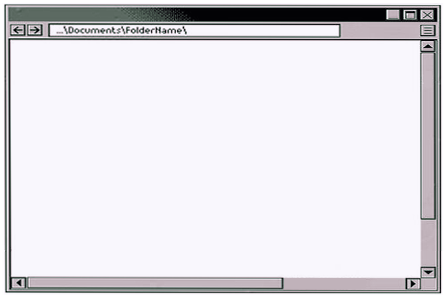
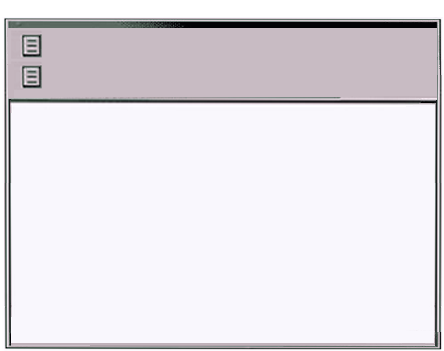
数据库框框

diff --git a/BigHomework/src/UI.java b/BigHomework/src/UI.java
@@ -289,8 +289,8 @@ class MainFrame{
 
         //设置各区块的绝对尺寸
         modifyPanel.setPreferredSize(new Dimension(433,170));
-        buttonPanel.setPreferredSize(new Dimension(433,50));
-        DBPanel.setPreferredSize(new Dimension(433,220));
+        buttonPanel.setPreferredSize(new Dimension(433,30));
+        DBPanel.setPreferredSize(new Dimension(433,230));
         ansPanel.setPreferredSize(new Dimension(433,35));
 
         //透明化panel
@@ -365,34 +365,58 @@ class MainFrame{
 
         //DBPanel：数据库信息显示区域（使用JTable显示数据）：搜索框 + 数据显示区域
         DBPanel.setLayout(new BorderLayout());
-        //搜索区域
+//搜索区域
         JPanel searchPanel = new JPanel();
-        JLabel searchLabel = new JLabel("按姓名查询：");
-        JTextField searchPart = new JTextField();
-        JButton searchBtn = new JButton("查询");
-
-        //透明度设置
+//【修改1：外层改成垂直布局，实现上下分行】
+        searchPanel.setLayout(new BoxLayout(searchPanel, BoxLayout.Y_AXIS));
         searchPanel.setOpaque(false);
-
-        //searchPanel布局为流式布局，左对齐，垂直间距5，水平间距5
-        searchPanel.setLayout(new FlowLayout(FlowLayout.LEFT,5,5));
-        //searchPanel的边距
         searchPanel.setBorder(BorderFactory.createEmptyBorder(0,3,0,0));
 
-        //查询按钮设置
-        searchBtn.setFont(new java.awt.Font("Courier",Font.PLAIN,13));//设置Jbutton字体大小 以及风格
-        searchBtn.setBackground(Color.WHITE);
-        searchBtn.setPreferredSize(new Dimension(55,20));
-        searchBtn.setBorder(BorderFactory.createLineBorder(Color.gray,1,true));
+//===== 第一行：第一个搜索行 =====
+        JPanel row1 = new JPanel(new FlowLayout(FlowLayout.LEFT,20,2));
+        row1.setOpaque(false);
+        JLabel searchLabel = new JLabel("      ");
+        JTextField searchPart = new JTextField();
+        JButton searchBtn1 = new JButton("查询");
 
-        //搜索框设置
+//查询按钮1设置
+        searchBtn1.setFont(new java.awt.Font("Courier",Font.PLAIN,13));
+        searchBtn1.setBackground(Color.WHITE);
+        searchBtn1.setPreferredSize(new Dimension(55,20));
+        searchBtn1.setBorder(BorderFactory.createLineBorder(Color.gray,1,true));
+//搜索框1尺寸
         searchPart.setPreferredSize(new Dimension(175,25));
 
+        row1.add(searchLabel);
+        row1.add(searchPart);
+        row1.add(searchBtn1);
+        searchPanel.add(row1);
+
+//【两行中间空隙】
+        searchPanel.add(Box.createVerticalStrut(3));
+
+//===== 第二行：第二个搜索行（新增searchPart2，和上面结构一致，垂直在下方） =====
+        JPanel row2 = new JPanel(new FlowLayout(FlowLayout.LEFT,20,2));
+        row2.setOpaque(false);
+        JLabel searchLabel2 = new JLabel("      ");
+        JTextField searchPart2 = new JTextField(); //第二个独立输入框
+        JButton searchBtn2 = new JButton("查询");
+
+//搜索按钮2配置（沿用你原来样式）
+        searchBtn2.setFont(new java.awt.Font("Courier",Font.PLAIN,13));
+        searchBtn2.setBackground(Color.WHITE);
+        searchBtn2.setPreferredSize(new Dimension(55,20));
+        searchBtn2.setBorder(BorderFactory.createLineBorder(Color.gray,1,true));
+//第二个输入框尺寸
+        searchPart2.setPreferredSize(new Dimension(175,25));
+
+        row2.add(searchLabel2);
+        row2.add(searchPart2);
+        row2.add(searchBtn2);
+        searchPanel.add(row2);
+
+//整体挂载到DBPanel顶部
         DBPanel.add(searchPanel,BorderLayout.NORTH);
-        searchPanel.add(searchLabel);
-        searchPanel.add(searchLabel);
-        searchPanel.add(searchPart);
-        searchPanel.add(searchBtn);
 
 
 
@@ -443,10 +467,20 @@ class MainFrame{
         queryBtn.addActionListener(e -> loadAllStudents());
 
         // 2. 按姓名查询
-        searchBtn.addActionListener(e -> {
+        searchBtn1.addActionListener(e -> {
             String searchName = searchPart.getText().trim();
             if (searchName.isEmpty()) {
                 JOptionPane.showMessageDialog(frame, "请输入要查询的姓名。");
+                return;
+            }
+            loadStudentByName(searchName);
+        });
+        //2.1.按备注查询
+        // 2. 按姓名查询
+        searchBtn1.addActionListener(e -> {
+            String searchName = searchPart2.getText().trim();
+            if (searchName.isEmpty()) {
+                JOptionPane.showMessageDialog(frame, "请输入要查询的备注。");
                 return;
             }
             loadStudentByName(searchName);

diff --git a/BigHomework/src/PageManager.java b/BigHomework/src/PageManager.java
@@ -36,7 +36,7 @@ public class PageManager {
         imagePaths.add("image/a_005.png");
         imagePaths.add("image/a_010.png");
         imagePaths.add("image/a_005.png");
-        imagePaths.add("image/a_010.png");
+        imagePaths.add("image/a_008.png");
         imagePaths.add("image/a_005.png");
         imagePaths.add("image/a_006.png");
         imagePaths.add("image/a_005.png");
